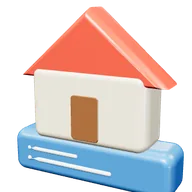
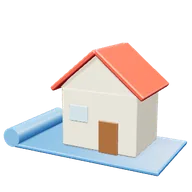
Símbolos modelados en 3D real (13 más): dado, cohete, avión, hoja, aerogenerador, tableta de animación, casa con plano, microscopio, ADN, matraz con brote, escudo con candado, claqueta y cámara de cine

diff --git a/datos/simbolos3d/models.js b/datos/simbolos3d/models.js
@@ -34,10 +34,114 @@ export function kit(material,g){
   return K;
 }
 
-const PU='#8E5BB5',TE='#2FA39A',OR='#F08A2E',PK='#F3A3B5';const GY='#8C96A0',ST='#A9B6C2',BK='#3A4048',WH='#F3F1EA',RE='#DE4A3C',BL='#3F82C4',GR='#4FAE5B',YE='#F6CD3B',BR='#8A5A36',WO='#B9804B',GO='#E8B53C',NA='#2D4A6E',CR='#F0E2C2',SK='#E7A97C';
+const PU='#8E5BB5',TE='#2FA39A',OR='#F08A2E',PK='#F3A3B5',GL='#AEE0F2';const GY='#8C96A0',ST='#A9B6C2',BK='#3A4048',WH='#F3F1EA',RE='#DE4A3C',BL='#3F82C4',GR='#4FAE5B',YE='#F6CD3B',BR='#8A5A36',WO='#B9804B',GO='#E8B53C',NA='#2D4A6E',CR='#F0E2C2',SK='#E7A97C';
 
 const circ=(cx,cy,r,n,a0,a1)=>{a0=a0==null?0:a0;a1=a1==null?Math.PI*2:a1;const o=[];for(let i=0;i<n;i++){const a=a0+(a1-a0)*i/(n-(Math.abs(a1-a0-Math.PI*2)<1e-6?0:1));o.push([cx+Math.cos(a)*r,cy+Math.sin(a)*r])}return o};
 export const MODELS={
+  // Dado con puntos en las seis caras
+  'actuaria.a'(K){
+    K.box(56,56,56,WH,{rad:9});
+    const pip=(n,c)=>{const P={1:[[0,0]],2:[[-1,-1],[1,1]],3:[[-1,-1],[0,0],[1,1]],4:[[-1,-1],[1,-1],[-1,1],[1,1]],5:[[-1,-1],[1,-1],[0,0],[-1,1],[1,1]],6:[[-1,-1],[1,-1],[-1,0],[1,0],[-1,1],[1,1]]}[n];return P};
+    const faces=[[5,[0,0,28.2],[90,0,0]],[2,[0,0,-28.2],[90,0,0]],[3,[28.2,0,0],[0,0,90]],[4,[-28.2,0,0],[0,0,90]],[1,[0,28.2,0],[0,0,0]],[6,[0,-28.2,0],[0,0,0]]];
+    faces.forEach(([n,p,r])=>{const g=K.group({p,r});pip(n).forEach(([a,b])=>K.cyl(5,5,1,n==1||(n==5&&a==0)?RE:BK,{p:[a*14,0,b*14],parent:g}))});
+  },
+  // Cohete con ventanilla, aletas, franja y llama
+  'aeroespacial.a'(K){
+    K.lathe([[0.01,-26],[13,-26],[15,-10],[15,14],[12,28],[6,38],[0.01,42]],WH);
+    K.lathe([[0.01,28],[12,28],[6,38],[0.01,42]].reverse().map(p=>p),RE,{s:[1.02,1,1.02]});
+    K.tor(15.2,1.6,RE,{p:[0,0,0],r:[90,0,0]});
+    K.cyl(6,6,4,ST,{m:'metal',p:[0,12,13.4],r:[90,0,0]});K.cyl(4.6,4.6,4.4,GL,{m:'glass',p:[0,12,13.6],r:[90,0,0]});
+    for(let i=0;i<3;i++){const g=K.group({r:[0,i*120,0]});K.ext('M0 0 L14 14 L14 22 L0 16 Z',3,RE,{bevel:1,p:[13,-10,0],r:[180,0,0],parent:g})}
+    K.cyl(9,12,8,GY,{m:'metal',p:[0,-30,0]});
+    K.lathe([[0.01,-34],[9,-34],[7,-44],[0.01,-58]],OR);K.lathe([[0.01,-34],[5,-34],[4,-42],[0.01,-50]],YE,{s:[1.05,1.02,1.05]});
+  },
+  // Avión de pasajeros: fuselaje, alas, turbinas, cola y ventanillas
+  'aeroespacial.b'(K){
+    K.cap(8,70,WH,{r:[0,0,90]});
+    K.box(10,1.6,74,'#E6ECEF',{p:[2,-2,0],r:[0,-20,0],rad:0.8,s:[1.6,1,1]});
+    [-18,18].forEach(z=>K.cyl(3.6,3.6,12,GY,{m:'metal',p:[4,-6,z],r:[0,0,90]}));
+    K.ext('M0 0 L12 -24 L20 -24 L16 0 Z',2,BL,{bevel:0.8,p:[-38,6,0]});
+    K.box(6,1.2,28,'#E6ECEF',{p:[-38,4,0],r:[0,-20,0],rad:0.5});
+    for(let i=0;i<9;i++)[8.1,-8.1].forEach(z=>K.cyl(1.2,1.2,0.6,'#2B4A6E',{p:[-22+i*6,2,z],r:[90,0,0]}));
+    K.box(8,4,10,'#2B4A6E',{p:[39,2,0],rad:2});
+  },
+  // Hoja con nervaduras y gota de agua
+  'ambiental.a'(K){
+    const g=K.group({r:[0,0,-30]});
+    K.ext('M0 -46 C26 -30 30 10 0 46 C-30 10 -26 -30 0 -46 Z',8,GR,{bevel:3,parent:g});
+    K.tube([[0,-50,0],[0,40,0]],1.4,'#2F7F3E',{parent:g});
+    [[-30,1],[-14,1],[2,1],[18,1],[-30,-1],[-14,-1],[2,-1],[18,-1]].forEach(([y,sd])=>[6.6,-6.6].forEach(z=>K.tube([[0,y,z],[sd*14,y+10,z]],0.7,'#2F7F3E',{parent:g,nocap:true})));
+    K.lathe([[0.01,-10],[6,-6],[7,0],[4,6],[0.01,14]],BL,{m:'glass',p:[24,-26,10]});
+  },
+  // Aerogenerador: torre, góndola, rotor y tres aspas
+  'ambiental.b'(K){
+    K.cyl(2.4,4.6,80,WH,{p:[0,-10,0]});K.box(12,7,7,WH,{p:[0,32,-2],rad:2.4});K.sph(3.6,ST,{m:'metal',p:[0,32,3]});
+    for(let i=0;i<3;i++){const g=K.group({p:[0,32,4],r:[0,0,i*120+10]});K.ext('M0 -2 C4 -10 4 -30 0 -40 C-2 -30 -3 -10 -2 -2 Z',1.8,WH,{bevel:0.6,parent:g})}
+    K.cyl(16,16,3,GR,{p:[0,-51,0]});
+  },
+  // Pantalla de animación: tableta con pelota rebotando y lápiz
+  'animacion.b'(K){
+    K.box(76,54,6,'#2B3540',{rad:5});K.box(68,46,0.6,'#F3F6F8',{p:[0,0,3.2],rad:2});
+    [[-20,-10,'#F4B4A8'],[-4,8,'#EE8F80'],[14,14,RE]].forEach(([x,y,c])=>K.sph(5,c,{p:[x,y,4],s:[1,1,0.4]}));
+    K.tube([[-28,-16,3.4],[-14,10,3.4],[0,16,3.4],[14,14,3.4]],0.5,'#9AA3AC',{nocap:true});
+    const p=K.group({p:[36,-28,6],r:[0,0,-40]});K.cyl(2,2,40,'#5B6670',{parent:p});K.cone(2,5,BK,{p:[0,-22,0],r:[180,0,0],parent:p});
+  },
+  // Casa con plano: casa sobre un plano enrollado
+  'arquitectura.b'(K){
+    K.box(80,2,46,BL,{p:[0,-26,0],rad:0.8});K.cyl(5,5,46,'#5B9BD8',{p:[-40,-22,0],r:[90,0,0]});
+    [[-16,10],[-4,16]].forEach(([z,w])=>K.box(w*2,0.4,1,'#EAF4FB',{p:[-6,-24.6,z],rad:0.2}));
+    K.box(40,30,30,CR,{p:[6,-9,0],rad:1});
+    const A=Math.atan2(20,24)*180/Math.PI,L=Math.hypot(24,20);
+    K.box(L,2.4,36,RE,{p:[-6,15,0],r:[0,0,A],rad:0.8});K.box(L,2.4,36,RE,{p:[18,15,0],r:[0,0,-A],rad:0.8});
+    [15.2,-15.2].forEach(z=>K.ext('M-20 0 L20 0 L0 -20 Z',0.6,CR,{bevel:0,p:[6,6,z]}));
+    K.box(10,16,1,'#8A5A36',{p:[12,-16,15.4],rad:0.4});K.box(10,8,1,GL,{p:[-4,-6,15.4],rad:0.4});
+  },
+  // Microscopio: base, brazo, platina, revólver, objetivos, ocular y perilla
+  'biologia.a'(K){
+    K.box(48,6,30,NA,{p:[0,-38,0],rad:2});
+    K.tube([[14,-34,0],[18,-10,0],[14,14,0],[4,26,0]],5,NA,{});
+    K.box(30,3,24,'#2B3540',{p:[-6,-10,0],rad:1});K.cyl(5,5,3,'#FFF1B0',{p:[-6,-20,0]});
+    const t=K.group({p:[-4,18,0],r:[0,0,28]});K.cyl(5,5,34,WH,{parent:t,p:[0,8,0]});K.cyl(4,3,10,BK,{parent:t,p:[0,28,0]});K.cyl(6,6,4,ST,{m:'metal',parent:t,p:[0,-10,0]});
+    [[-3,-14],[3,-14]].forEach(([x,y])=>K.cyl(1.8,1.4,8,ST,{m:'metal',p:[x-10,y+12,0]}));
+    K.cyl(4,4,4,GY,{m:'metal',p:[18,-12,8],r:[90,0,0]});K.cyl(4,4,4,GY,{m:'metal',p:[18,-12,-8],r:[90,0,0]});
+  },
+  // Doble hélice de ADN con peldaños
+  'biotec.a'(K){
+    const A=[],B=[];for(let i=0;i<=40;i++){const t=i/40*Math.PI*3,y=-44+i*2.2;A.push([Math.cos(t)*16,y,Math.sin(t)*16]);B.push([-Math.cos(t)*16,y,-Math.sin(t)*16])}
+    K.tube(A,3,BL,{});K.tube(B,3,RE,{});
+    for(let i=2;i<40;i+=3)K.tube([A[i],B[i]],1.2,i%2?YE:GR,{nocap:true});
+  },
+  // Matraz con tierra y brote
+  'biotec.b'(K){
+    K.lathe([[0.01,-30],[28,-30],[30,-27],[10,14],[10,30],[12,32],[0.01,32]],'#DDF1FA',{m:'membrane'});
+    K.cyl(23,27,9,'#8A5A36',{p:[0,-24.5,0]});
+    K.tube([[0,-20,0],[0,-8,0],[2,0,0]],1.2,'#2F7F3E',{});
+    K.ext('M0 0 C-6 -6 -14 -6 -18 0 C-14 4 -6 4 0 0 Z',1.4,GR,{bevel:0.6,p:[1,-4,0],r:[0,0,30]});K.ext('M0 0 C6 -6 14 -6 18 0 C14 4 6 4 0 0 Z',1.4,GR,{bevel:0.6,p:[2,0,0],r:[0,0,-30]});
+    K.cyl(11,11,6,ST,{m:'metal',p:[0,35,0]});
+  },
+  // Escudo con candado
+  'ciberseguridad.a'(K){
+    K.ext('M0 -48 L36 -36 V-6 C36 22 20 38 0 48 C-20 38 -36 22 -36 -6 V-36 Z',14,BL,{bevel:3});
+    [9.6,-9.6].forEach(z=>{K.box(26,22,5,GO,{m:'gold',p:[0,-6,z],rad:3});K.tube([[-8,4,z],[-8,12,z],[0,18,z],[8,12,z],[8,4,z]],2.2,ST,{m:'metal'});K.cyl(2.6,2.6,1,'#7A5A1A',{p:[0,-4,z+Math.sign(z)*2.6],r:[90,0,0]})});
+  },
+  // Claqueta con brazo de rayas y bisagra
+  'cine.a'(K){
+    K.box(70,48,6,'#2B3540',{p:[0,-10,0],rad:2});
+    [[18,'#FFFFFF'],[6,'#FFFFFF'],[-6,'#FFFFFF']].forEach(([y,c])=>{});
+    [3.2,-3.2].forEach(z=>{[-4,-14].forEach(y=>K.box(60,1.6,0.6,WH,{p:[0,y,z],rad:0.4}))});
+    const arm=K.group({p:[-35,18,0],r:[0,0,14]});K.box(70,10,6,'#2B3540',{p:[35,0,0],rad:1.5,parent:arm});
+    for(let i=0;i<5;i++)K.box(6,10.4,6.4,WH,{p:[8+i*14,0,0],r:[0,0,-30],rad:0.4,parent:arm});
+    const b=K.group({p:[0,10,0]});for(let i=0;i<5;i++)K.box(6,8.4,6.4,WH,{p:[-27+i*14,4,0],r:[0,0,30],rad:0.4,parent:b});K.box(70,8,6,'#2B3540',{p:[0,4,0],rad:1.5,parent:b});
+    K.cyl(3,3,7,ST,{m:'metal',p:[-35,18,0],r:[90,0,0]});
+  },
+  // Cámara de cine con dos rollos, cuerpo y lente
+  'cine.b'(K){
+    K.box(54,32,22,'#4A5560',{p:[-6,-10,0],rad:4});
+    [[-20,22],[10,20]].forEach(([x,r])=>{K.cyl(r/1.4,r/1.4,8,BK,{p:[x,18,0],r:[90,0,0]});for(let i=0;i<5;i++)[4.2,-4.2].forEach(z=>K.box(1.4,r*1.2,0.6,'#5B6670',{p:[x,18,z],r:[0,0,i*36],rad:0.3}));K.cyl(2.4,2.4,9,ST,{m:'metal',p:[x,18,0],r:[90,0,0]})});
+    K.cyl(8,12,16,BK,{p:[28,-10,0],r:[0,0,90]});K.cyl(9,9,1,'#7FC8F0',{m:'glass',p:[36.6,-10,0],r:[0,0,90]});
+    K.box(10,6,1,RE,{p:[-18,-4,11.3],rad:1});K.box(24,8,16,BK,{p:[-6,-30,0],rad:2});
+  },
+
   // Huella de perro con cruz veterinaria, almohadillas abombadas
   'veterinaria.a'(K){
     const B='#6B3F2A';
